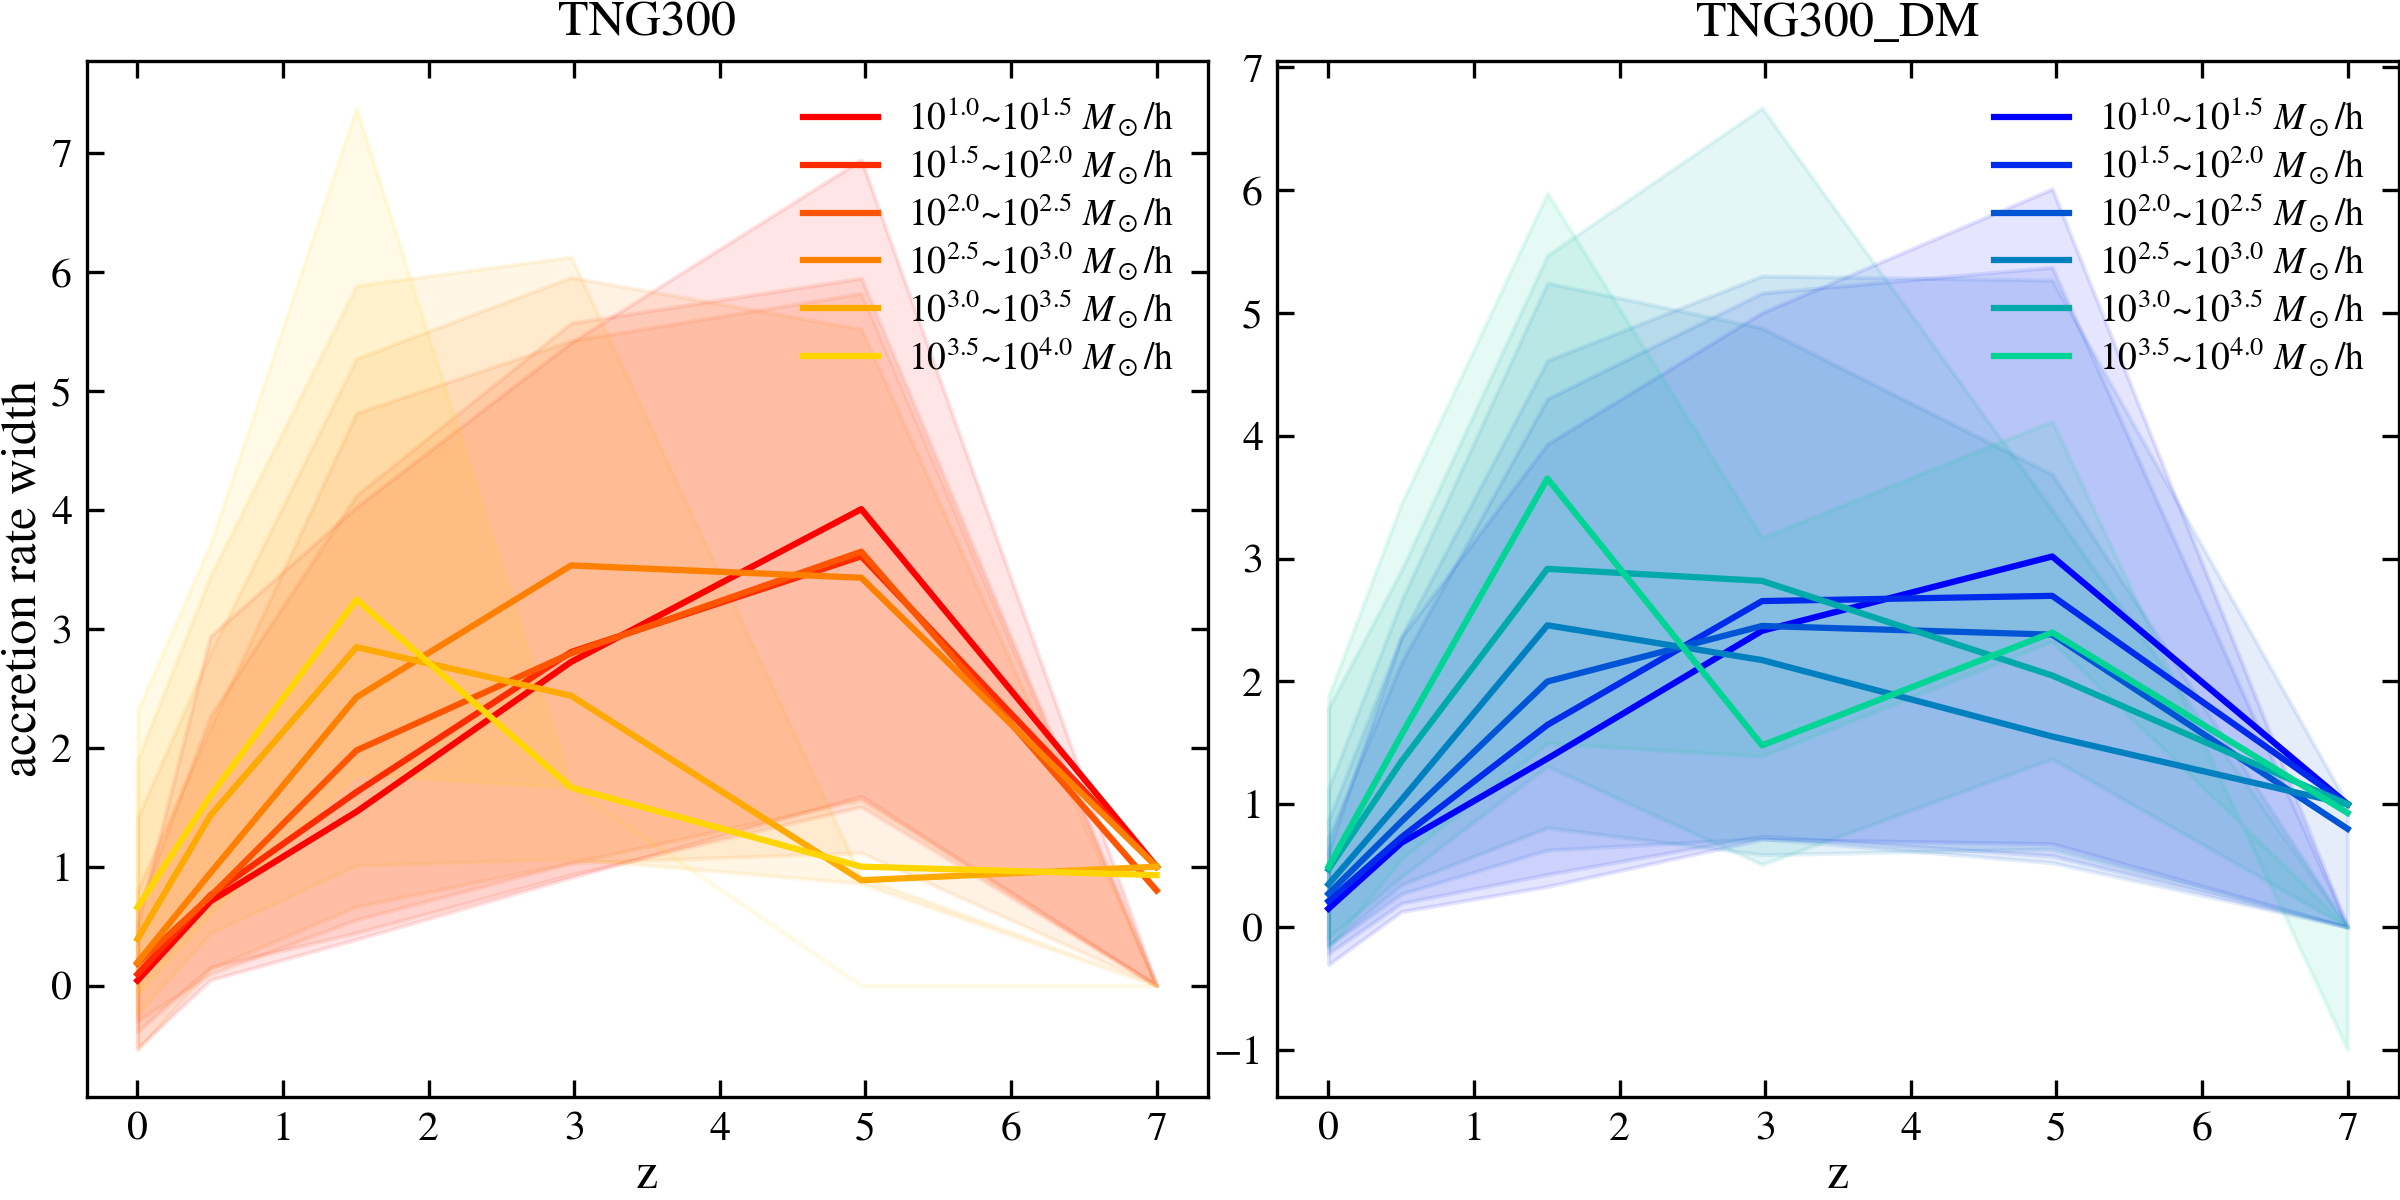
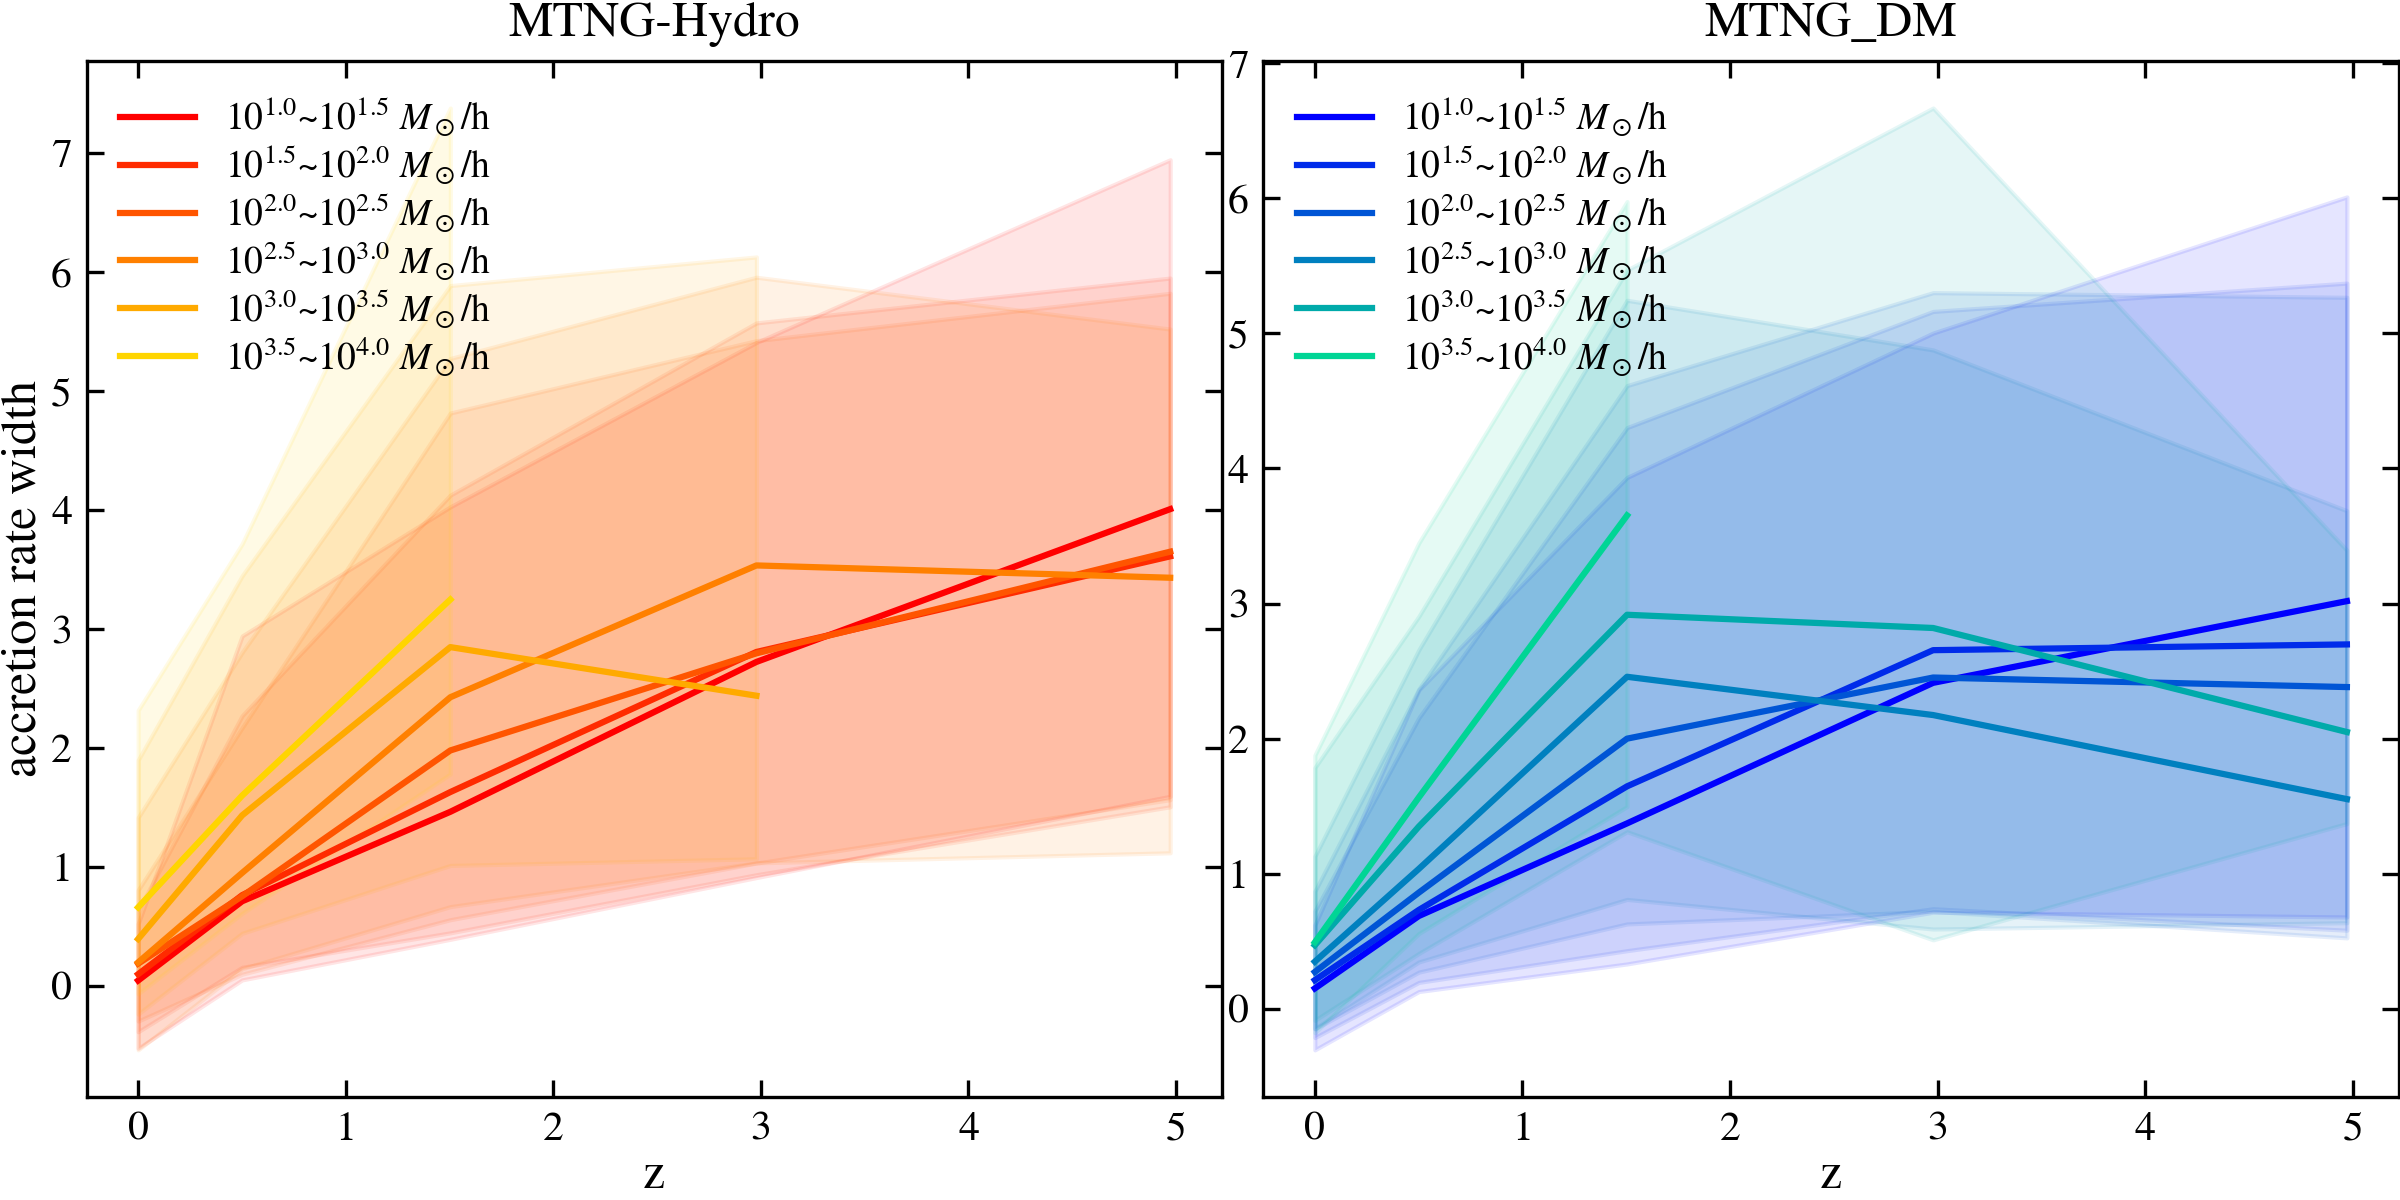
ne

diff --git a/code/tree/plot_accretion_hist.py b/code/tree/plot_accretion_hist.py
@@ -28,20 +28,26 @@ save_dir = f'result/accretion_rate_plot/{simpath}/'
 if not os.path.exists(save_dir):
     os.makedirs(save_dir)
     
-    
+snap_list = ['snap_51', 'snap_69', 'snap_94', 'snap_151', 'snap_214', 'snap_264']
     
 # Load df
-mass_df      = pd.read_csv(load_dir+'mass_table.csv', index_col=0)
+if os.path.exists(f'{load_dir}/redu_mass_table.csv'):
+    mass_df = pd.read_csv(load_dir+'redu_mass_table.csv', index_col=0)
+else:
+    mass_df = pd.read_csv(load_dir+'mass_table.csv', index_col=0)
+    # Select only accross cosmological time
+    mass_df = mass_df.loc[snap_list]
+    mass_df.to_csv(load_dir+'redu_mass_table.csv', index=True)
 print('mass df succesfully loaded')
-accretion_df = pd.read_csv(load_dir+'accretion_table.csv', index_col=0)
+
+if os.path.exists(f'{load_dir}/redu_accretion_table.csv'):
+    accretion_df = pd.read_csv(load_dir+'redu_accretion_table.csv', index_col=0)
+else:
+    accretion_df = pd.read_csv(load_dir+'accretion_table.csv', index_col=0)
+    # Select only accross cosmological time
+    accretion_df = accretion_df.loc[snap_list]
+    accretion_df.to_csv(load_dir+'redu_accretion_table.csv', index=True)
 print('accretion rate df succesfully loaded')
-
-# Select only accross cosmological time
-mass_df      = mass_df.loc[['snap_51', 'snap_69', 'snap_94', 'snap_151', 'snap_214', 'snap_264']]
-accretion_df = accretion_df.loc[['snap_51', 'snap_69', 'snap_94', 'snap_151', 'snap_214', 'snap_264']]
-
-snap_list = mass_df.index
-print(snap_list)
 
 
 
@@ -140,21 +146,24 @@ for isnap in range(len(snap_list)):
                 rate_mask = (rate_cut <= 15)
                 rate_cut  = rate_cut[rate_mask]
                 
-                median     = np.median(rate_cut)
-                std        = np.std(rate_cut)
-                low_bound  = np.percentile(rate_cut, 16)
-                high_bound = np.percentile(rate_cut, 84)
-                
-                # Plot the histogram
-                hist = axes[icut].hist(rate_cut, label=f'mass cut {mass_cuts[icut]}')[0]
-                axes[icut].plot([median, median], [0, max(hist)], linestyle='dashed', color='red', 
-                                label=f'median = {np.round(median, 3)}')
-                axes[icut].legend(loc='best')
-                
-                median_array[isnap, icut] = median
-                std_array[isnap, icut]    = std
-                lowp_array[isnap, icut]   = low_bound
-                highp_array[isnap, icut]  = high_bound
+                if len(rate_cut) < 5:
+                    pass
+                else:
+                    median     = np.median(rate_cut)
+                    std        = np.std(rate_cut)
+                    low_bound  = np.percentile(rate_cut, 16)
+                    high_bound = np.percentile(rate_cut, 84)
+                    
+                    # Plot the histogram
+                    hist = axes[icut].hist(rate_cut, label=f'mass cut {mass_cuts[icut]}')[0]
+                    axes[icut].plot([median, median], [0, max(hist)], linestyle='dashed', color='red', 
+                                    label=f'median = {np.round(median, 3)}')
+                    axes[icut].legend(loc='best')
+                    
+                    median_array[isnap, icut] = median
+                    std_array[isnap, icut]    = std
+                    lowp_array[isnap, icut]   = low_bound
+                    highp_array[isnap, icut]  = high_bound
             
         plt.savefig(save_dir+f'snap_{snap_list[isnap][5:]}_cuts')
         plt.close()

diff --git a/code/tree/plot_accretion_width.py b/code/tree/plot_accretion_width.py
@@ -8,8 +8,8 @@ fig, ax = plt.subplots(1, 2, figsize=(10, 4))
 root_dir = 'result/accretion_rate_plot/'
 
 # Run the scripts
-os.system('python3 code/tree/plot_accretion_hist.py --sim DM')
-os.system('python3 code/tree/plot_accretion_hist.py --sim Hydro')
+# os.system('python3 code/tree/plot_accretion_hist.py --sim DM')
+# os.system('python3 code/tree/plot_accretion_hist.py --sim Hydro')
 
 # MTNG-Hydro
 data = np.load(f'{root_dir}/Hydro-Arepo/MTNG-L500-4320-A/MTNG_Hydro_accret_stats.npy', 
@@ -24,14 +24,18 @@ highp_array  = data['accret_high']
 
 cmap = plt.get_cmap('autumn', len(mass_cuts))
 for icut in range(len(mass_cuts)-1):
-    mask = median_array[:, icut] != 0 # Remove zero terms
-
-    ax[0].plot(redshifts[mask], std_array[mask, icut], color=cmap(icut/len(mass_cuts)), 
-            label='std '+r'$10^{%.1f}$'%mass_cuts[icut]+'~'
-                 +r'$10^{%.1f}$ '%mass_cuts[icut+1]+'$M_\\odot$/h')
-    ax[0].plot(redshifts[mask], highp_array[mask, icut]-lowp_array[mask, icut], color=cmap(icut/len(mass_cuts)), 
-            label='width '+r'$10^{%.1f}$'%mass_cuts[icut]+'~'
-                 +r'$10^{%.1f}$ '%mass_cuts[icut+1]+'$M_\\odot$/h', linestyle='--')  
+     
+     print(mass_cuts[icut])
+     mask = median_array[:, icut] != 0 # Remove zero terms
+     print(std_array[mask, icut])
+     print(highp_array[mask, icut]-lowp_array[mask, icut])
+     print('')
+     ax[0].plot(redshifts[mask], std_array[mask, icut], color=cmap(icut/len(mass_cuts)), 
+          label='std '+r'$10^{%.1f}$'%mass_cuts[icut]+'~'
+               +r'$10^{%.1f}$ '%mass_cuts[icut+1]+'$M_\\odot$/h')
+     ax[0].plot(redshifts[mask], highp_array[mask, icut]-lowp_array[mask, icut], color=cmap(icut/len(mass_cuts)), 
+          label='width '+r'$10^{%.1f}$'%mass_cuts[icut]+'~'
+               +r'$10^{%.1f}$ '%mass_cuts[icut+1]+'$M_\\odot$/h', linestyle='--')  
 
 # MTNG-DM
 data = np.load(f'{root_dir}/DM-Arepo/MTNG-L500-4320-A/MTNG_DM_accret_stats.npy', 
@@ -47,7 +51,7 @@ highp_array  = data['accret_high']
 cmap = plt.get_cmap('winter', len(mass_cuts))
 for icut in range(len(mass_cuts)-1):
     mask = median_array[:, icut] != 0 # Remove zero terms
-
+    
     ax[1].plot(redshifts[mask], std_array[mask, icut], color=cmap(icut/len(mass_cuts)), 
              label='std '+r'$10^{%.1f}$'%mass_cuts[icut]+'~'
                   +r'$10^{%.1f}$ '%mass_cuts[icut+1]+'$M_\\odot$/h')

diff --git a/code/tree/plot_accretion_rate.py b/code/tree/plot_accretion_rate.py
@@ -70,7 +70,7 @@ ax[0].set_xlabel('z')
 ax[1].set_xlabel('z')
 ax[0].legend(loc='best')
 ax[1].legend(loc='best')
-ax[0].set_title(f'TNG300')
-ax[1].set_title(f'TNG300_DM')
+ax[0].set_title(f'MTNG-Hydro')
+ax[1].set_title(f'MTNG_DM')
 plt.savefig(f'{root_dir}/accretion_rate_vs_z')
 plt.close()
